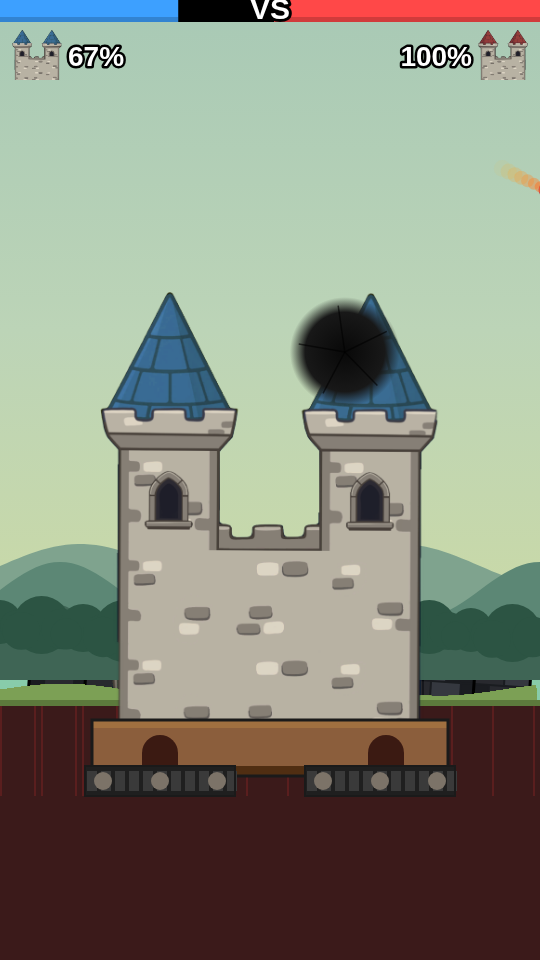
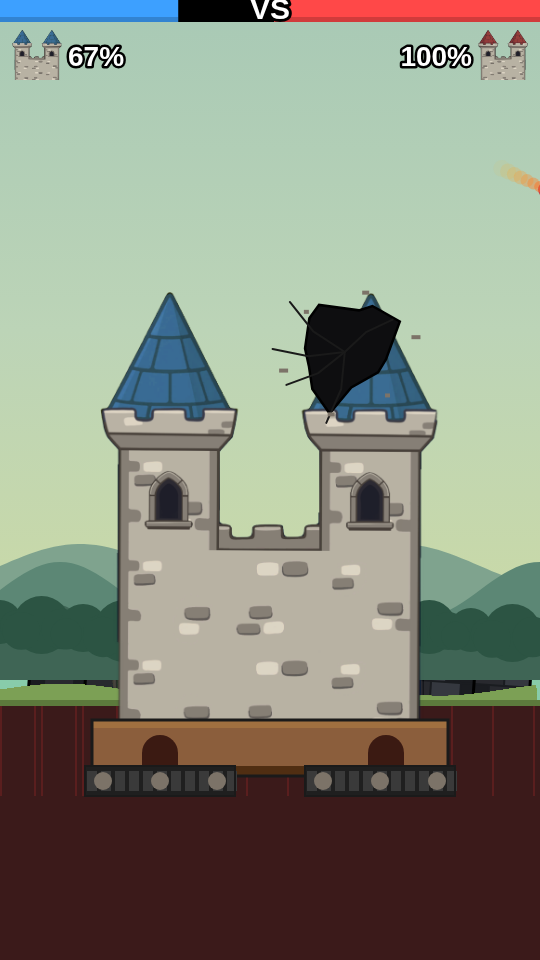
polish(v2): chunky damage holes + recoil tilt + bg/HUD final pass
- Damage masks: jagged 12-spoke polygon + crack rays + scattered chunks
  (replace soft radial gradient blob).
- Recoil tilt on impact (axis = treads, eased), -0.06 rad ours / +0.06 enemy.
- HUD: barres pleines se touchant au centre, VS 30px contour 6px round.
- Background: hills organiques arrondis, forest clusters lumpy, sol
  courbé grass→dirt rouge, sky teal misty.
- shots/_index.md mis à jour avec étape 07 (iter v2).

Verdict Gemini Vision pass3 : 4.5/10 (vs 3.5/10 pass2, vs 'placeholder' pass1).
Architecture mono-château ping-pong validée. Reste P0 destruction 'vrais
chunks' (briques révélées) hors scope iter v2.

Changed region(s): [[0.5037, 0.3125, 0.7407, 0.4375]]

diff --git a/scene_exterior/index.js b/scene_exterior/index.js
@@ -51,9 +51,30 @@ const muzzlePos = () => ({ x: CASTLE_X + MUZZLE_OFFSET.x, y: CASTLE_TOP_Y + MUZZ
 /** @type {'OURS'|'ENEMY'} */
 let view = 'OURS';
 
-/** Damage marks per side (don't bleed across views). */
-const dmg = { OURS: /** @type {{x:number,y:number,r:number}[]} */ ([]),
-              ENEMY: /** @type {{x:number,y:number,r:number}[]} */ ([]) };
+/** Damage marks per side (don't bleed across views). Each zone caches a
+ *  jagged polygon outline + crack rays so it doesn't shimmer between frames. */
+const dmg = { OURS: /** @type {{x:number,y:number,r:number,poly:[number,number][],cracks:[number,number][]}[]} */ ([]),
+              ENEMY: /** @type {{x:number,y:number,r:number,poly:[number,number][],cracks:[number,number][]}[]} */ ([]) };
+
+function _makeDamageZone(x, y, r) {
+  // Irregular polygon: 12 spokes around the centre with ±35% radius jitter.
+  const poly = /** @type {[number,number][]} */ ([]);
+  const N = 12;
+  for (let i = 0; i < N; i++) {
+    const a = (i / N) * Math.PI * 2 + Math.random() * 0.35;
+    const rr = r * (0.65 + Math.random() * 0.55);
+    poly.push([x + Math.cos(a) * rr, y + Math.sin(a) * rr]);
+  }
+  // 5-8 crack rays extending past the polygon edge.
+  const cracks = /** @type {[number,number][]} */ ([]);
+  const nC = 5 + Math.floor(Math.random() * 4);
+  for (let i = 0; i < nC; i++) {
+    const a = Math.random() * Math.PI * 2;
+    const rr = r * (1.05 + Math.random() * 0.6);
+    cracks.push([x + Math.cos(a) * rr, y + Math.sin(a) * rr]);
+  }
+  return { x, y, r, poly, cracks };
+}
 
 /** Castle tilt angle (radians) for firing animation. */
 let tiltAngle = 0;
@@ -168,8 +189,13 @@ function startPlayerShot(payload) {
 
 // ── Cinematic tick (called each frame) ───────────────────────────────────────
 function _tick(now) {
-  // Tilt decays after firing
-  if (now > tiltUntil) tiltAngle = 0;
+  // Tilt eases back toward 0 over the last 60% of its window.
+  if (tiltUntil > 0) {
+    const total = 600;
+    const remain = tiltUntil - now;
+    if (remain <= 0) { tiltAngle = 0; tiltUntil = 0; }
+    else if (remain < total * 0.6) tiltAngle *= 0.86;
+  }
 
   // Step transitions
   if (step === 'fire' && now - stepT0 > 1200) {
@@ -229,10 +255,13 @@ function _tick(now) {
 }
 
 function _impactEnemy(at, d) {
-  dmg.ENEMY.push({ x: at.x, y: at.y, r: 50 + Math.random() * 14 });
+  dmg.ENEMY.push(_makeDamageZone(at.x, at.y, 50 + Math.random() * 14));
   state.hp_enemy_pct = Math.max(0, state.hp_enemy_pct - d);
   floats.push({ x: at.x, y: at.y - 24, t0: performance.now(), text: `-${d}`, color: '#FFE54A' });
   shakeUntil = performance.now() + 360; shakeMag = 8;
+  // Recoil: castle tilts away from the impact point (impact came from left → tilt right).
+  tiltAngle = 0.06;
+  tiltUntil = performance.now() + 500;
   step = 'enemy_dwell';
   stepT0 = performance.now();
 }
@@ -249,10 +278,13 @@ function _emitCutToInterior() {
 // (the original _impactOurs handles incoming-opening differently).
 const _origImpactOurs = _impactOurs;
 function _impactOursDuringResolve(at, d) {
-  dmg.OURS.push({ x: at.x, y: at.y, r: 50 + Math.random() * 14 });
+  dmg.OURS.push(_makeDamageZone(at.x, at.y, 50 + Math.random() * 14));
   state.hp_self_pct = Math.max(30, state.hp_self_pct - d);  // never KO during ad
   floats.push({ x: at.x, y: at.y - 24, t0: performance.now(), text: `-${d}`, color: '#FFE54A' });
   shakeUntil = performance.now() + 320; shakeMag = 7;
+  // Recoil: bomb came from top-right → tilt left.
+  tiltAngle = -0.06;
+  tiltUntil = performance.now() + 500;
   step = 'ours_dwell';
   stepT0 = performance.now();
 }
@@ -265,7 +297,7 @@ function _routeOursImpact(at, d) {
     _impactOursDuringResolve(at, d);
   } else {
     // opening incoming
-    dmg.OURS.push({ x: at.x, y: at.y, r: 55 });
+    dmg.OURS.push(_makeDamageZone(at.x, at.y, 55));
     state.hp_self_pct = Math.max(0, state.hp_self_pct - d);
     floats.push({ x: at.x, y: at.y - 24, t0: performance.now(), text: `-${d}`, color: '#FFE54A' });
     shakeUntil = performance.now() + 380; shakeMag = 9;
@@ -472,22 +504,44 @@ function _drawDamageMasks(ctx, zones) {
   if (!zones.length) return;
   ctx.save();
   for (const z of zones) {
-    const grad = ctx.createRadialGradient(z.x, z.y, 4, z.x, z.y, z.r);
-    grad.addColorStop(0, '#0A0A0A');
-    grad.addColorStop(0.7, '#181818');
-    grad.addColorStop(1, 'rgba(24,24,24,0)');
-    ctx.fillStyle = grad;
+    // Hard-edged jagged hole revealing dark interior.
+    ctx.fillStyle = '#0E0E10';
     ctx.beginPath();
-    ctx.arc(z.x, z.y, z.r, 0, Math.PI * 2);
+    ctx.moveTo(z.poly[0][0], z.poly[0][1]);
+    for (let i = 1; i < z.poly.length; i++) {
+      ctx.lineTo(z.poly[i][0], z.poly[i][1]);
+    }
+    ctx.closePath();
     ctx.fill();
-    ctx.strokeStyle = 'rgba(0,0,0,0.6)';
-    ctx.lineWidth = 1.5;
-    for (let k = 0; k < 5; k++) {
-      const a = (k / 5) * Math.PI * 2 + (z.x % 1);
+
+    // Inner ragged edge (slightly darker rim)
+    ctx.lineWidth = 2.5;
+    ctx.strokeStyle = '#000';
+    ctx.stroke();
+
+    // Crack rays extending outward from the centre
+    ctx.strokeStyle = '#1A1A1A';
+    ctx.lineWidth = 2;
+    ctx.lineCap = 'round';
+    for (const [cx, cy] of z.cracks) {
       ctx.beginPath();
       ctx.moveTo(z.x, z.y);
-      ctx.lineTo(z.x + Math.cos(a) * z.r * 0.85, z.y + Math.sin(a) * z.r * 0.85);
+      // Slight zig-zag along the crack
+      const mx = (z.x + cx) / 2 + (cy - z.y) * 0.08;
+      const my = (z.y + cy) / 2 - (cx - z.x) * 0.08;
+      ctx.lineTo(mx, my);
+      ctx.lineTo(cx, cy);
       ctx.stroke();
+    }
+
+    // Small stone chunks scattered just outside the hole
+    ctx.fillStyle = '#7C7368';
+    for (let k = 0; k < 6; k++) {
+      const a = Math.PI * 2 * (k / 6) + (z.x % 1);
+      const rr = z.r * 1.05 + (k * 5) % 14;
+      const px = z.x + Math.cos(a) * rr;
+      const py = z.y + Math.sin(a) * rr;
+      ctx.fillRect(px, py, 5 + (k % 3) * 2, 4 + ((k * 3) % 3));
     }
   }
   ctx.restore();

diff --git a/input/B01_castle_clashers/shots/_index.md b/input/B01_castle_clashers/shots/_index.md
@@ -46,9 +46,33 @@ Bundle prod `dist/playable.html` (2.08 MB), `__forcePhase` exposé, sweep sans e
 - VSDK shim chargé en premier, assets-inline ensuite, bundle en dernier
 - `window.Voodoo.playable.redirectToInstallPage()` câblé sur tap endcard
 
-## Divergences clés (ref `SANDBOX/outputs/divergences.md`)
+### Étape 07 — itération v2 (refonte caméra + critique Gemini)
+
+Découverte audit Gemini Vision : la source ne montre **JAMAIS** les 2 châteaux à l'écran simultanément (run-1 les juxtaposait, faux). Refonte profonde caméra.
+
+| Cible | Capture |
+|---|---|
+| Intro clean (HP 100/100, bombe ennemie en l'air) | ![](./06-iter-v2/t00-200-intro-clean.png) |
+| Bombe ennemie impact + dégât chunky | ![](./06-iter-v2/t01-1100-bomb-falling.png) |
+| Cut → ext_enemy (rocket arrive de la gauche) | ![](./06-iter-v2/t08-cut-to-enemy.png) |
+| Impact château ennemi + tilt recul | ![](./06-iter-v2/t09-enemy-impact.png) |
+| Cut → ext_ours (riposte ennemie) | ![](./06-iter-v2/t11-cut-to-ours-incoming.png) |
+| Endcard victory | ![](./06-iter-v2/phase_endcard.png) |
+
+Architecture refonte :
+- `scene_exterior` mono-château avec `view = OURS|ENEMY` (single asset centré)
+- Nouveau state `INTRO_INCOMING` (ouverture: bombe ennemie tombe sur nous, -33% HP)
+- Cinematic ping-pong par tour : fire→cut_enemy→dwell→cut_ours→dwell→cut_to_interior (~4s)
+- HUD : barres pleines bleue/rouge se touchant au centre + VS gros + %  contour épais
+- BG : sky teal misty, hills organiques, forest clusters lumpy, ground courbe
+- Damage masks : trous polygonaux jagged + cracks rays (vs radial-gradient blob)
+- Tilt recoil sur impact (axe chenilles, ease back)
+
+Verdict Gemini : pass1 = "placeholder" → pass3 = **4.5/10** (progrès net mono-château + sequencing + HUD layout). Reste P0 : destruction "vrais chunks" + briques internes révélées.
+
+## Divergences clés (ref `SANDBOX/outputs/divergences-v2.md`)
 1. Pas de corbeaux autonomes : bombes ennemies tirées au tour-par-tour
 2. Cible input : tap unité ET cartes du bas (UX HTML5 friendly)
 3. End-card cast ≠ gameplay cast (deux castings distincts conservés)
 4. Nuage vert [00:53] ignoré (artefact)
-5. Châteaux conjoints sur chassis partagé (vs face-à-face long champ)
+5. (run-1 → corrigé en v2) Châteaux conjoints partagés → mono-château ping-pong
